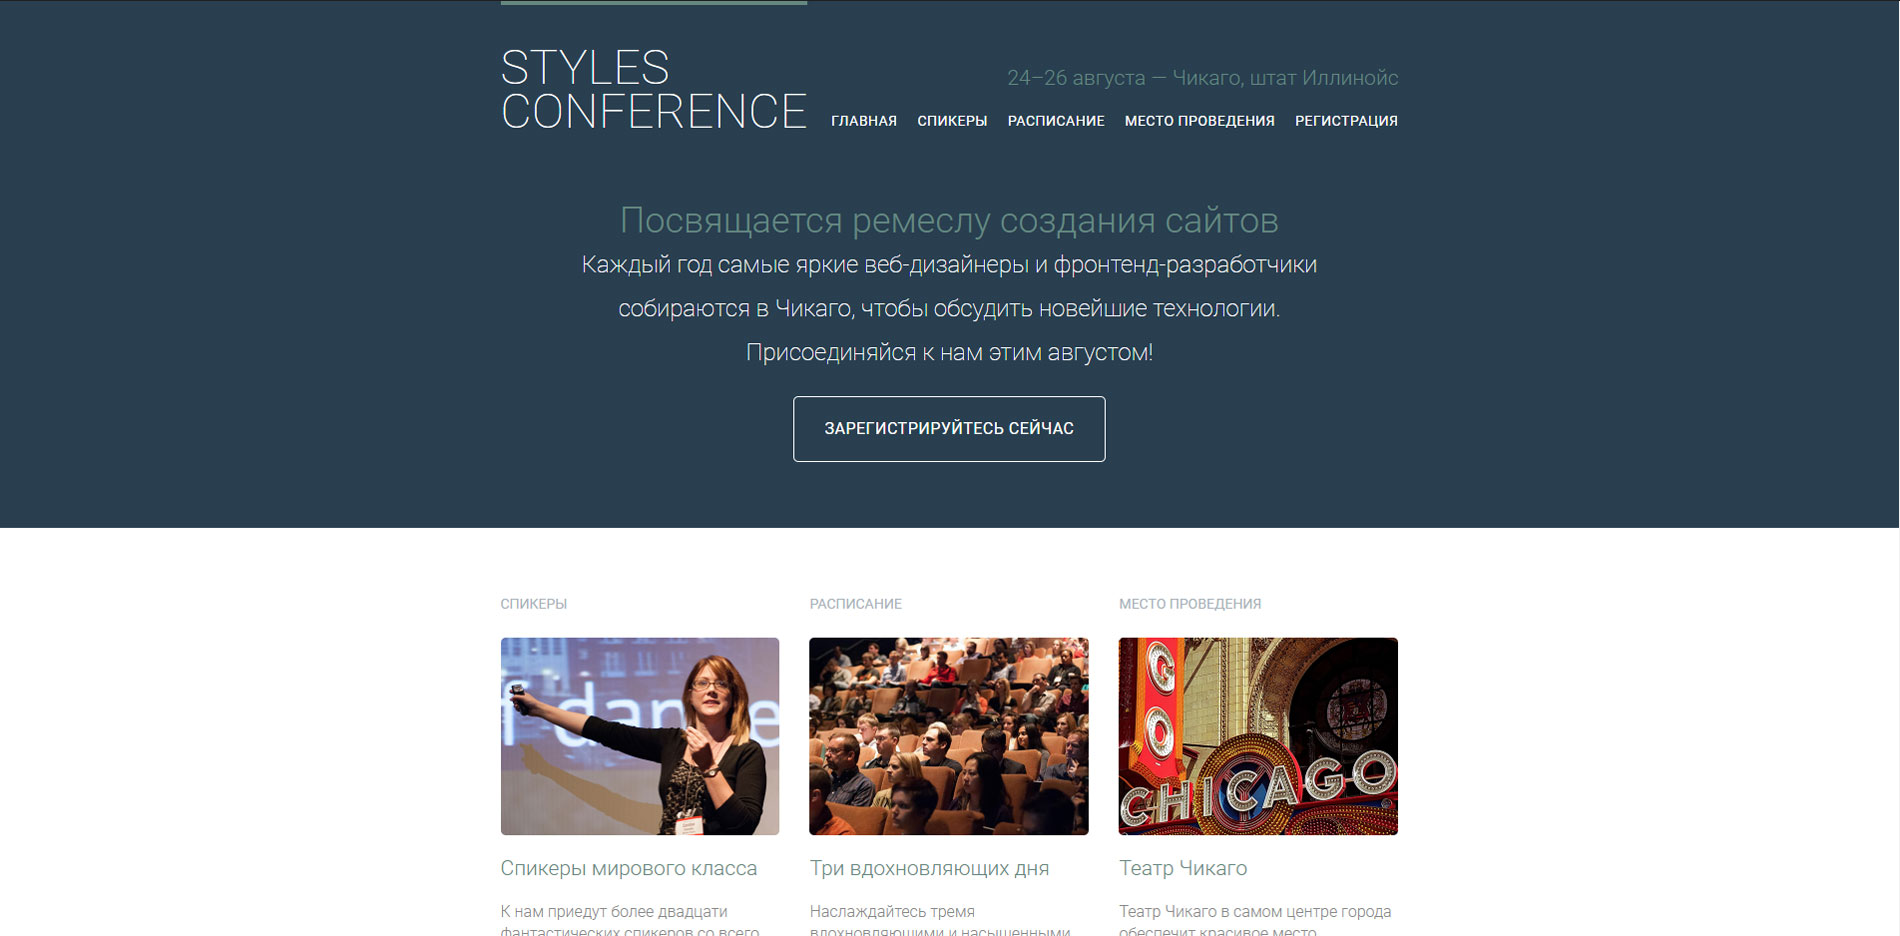
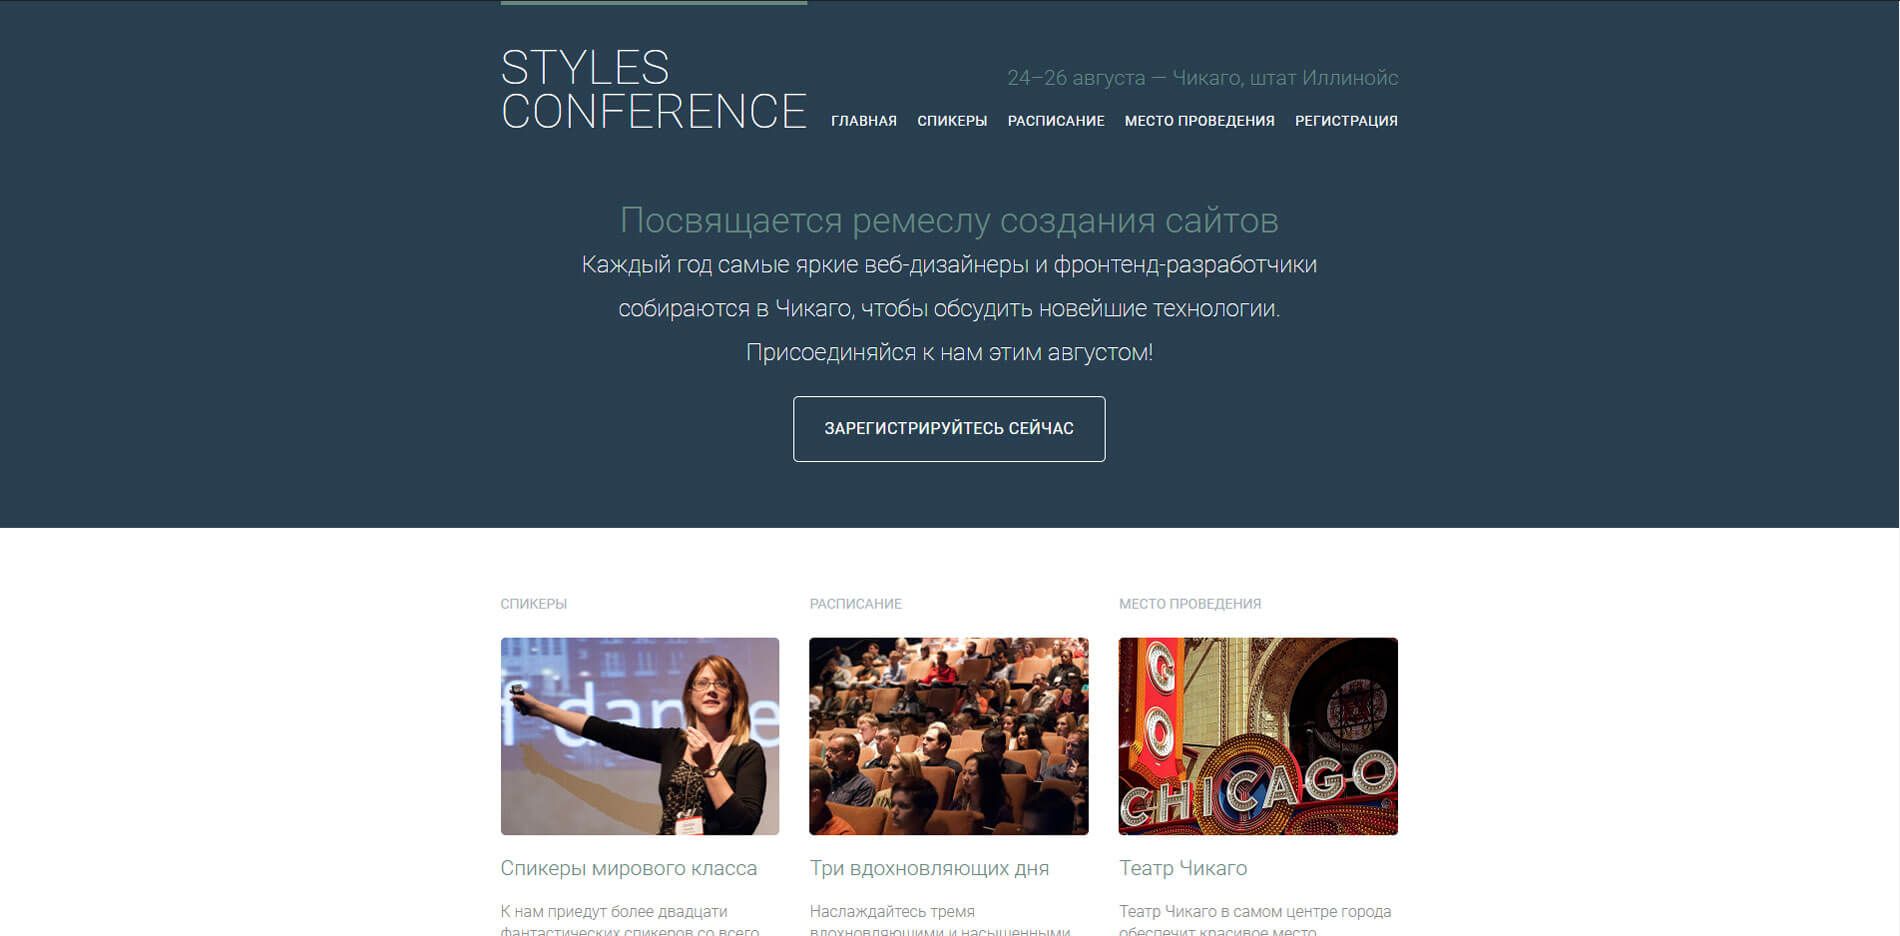
Resize image and change title

diff --git a/index.html b/index.html
@@ -5,7 +5,7 @@
   <meta charset="UTF-8">
   <meta name="viewport" content="width=device-width, initial-scale=1.0">
   <meta http-equiv="X-UA-Compatible" content="ie=edge">
-  <title>Document</title>
+  <title>DimaSagalay</title>
   <link href="https://fonts.googleapis.com/css?family=Pacifico|Roboto+Mono:300,400,700&display=swap&subset=cyrillic-ext"
     rel="stylesheet">
   <link rel="stylesheet" href="assets/css/style.css">
